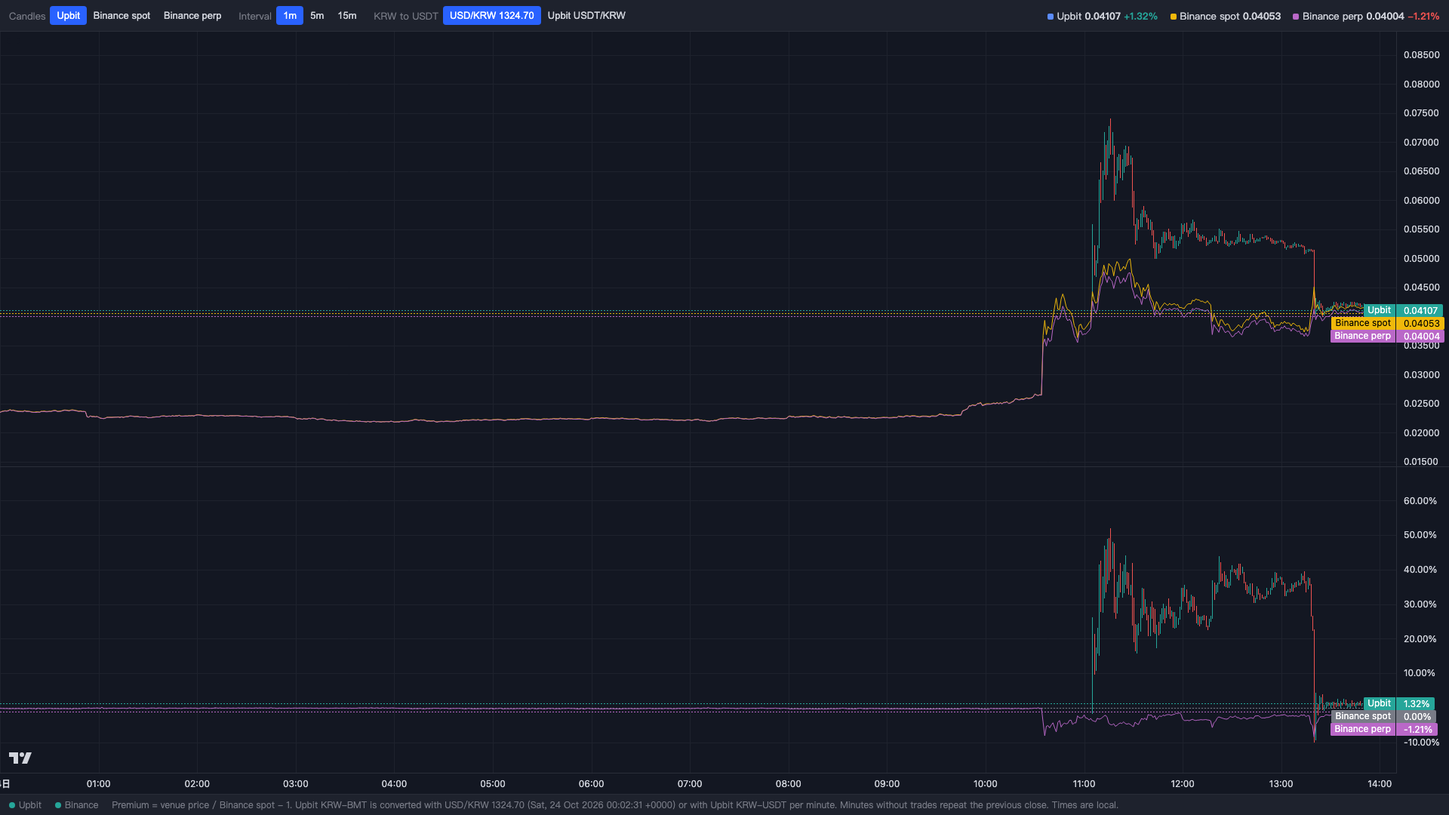
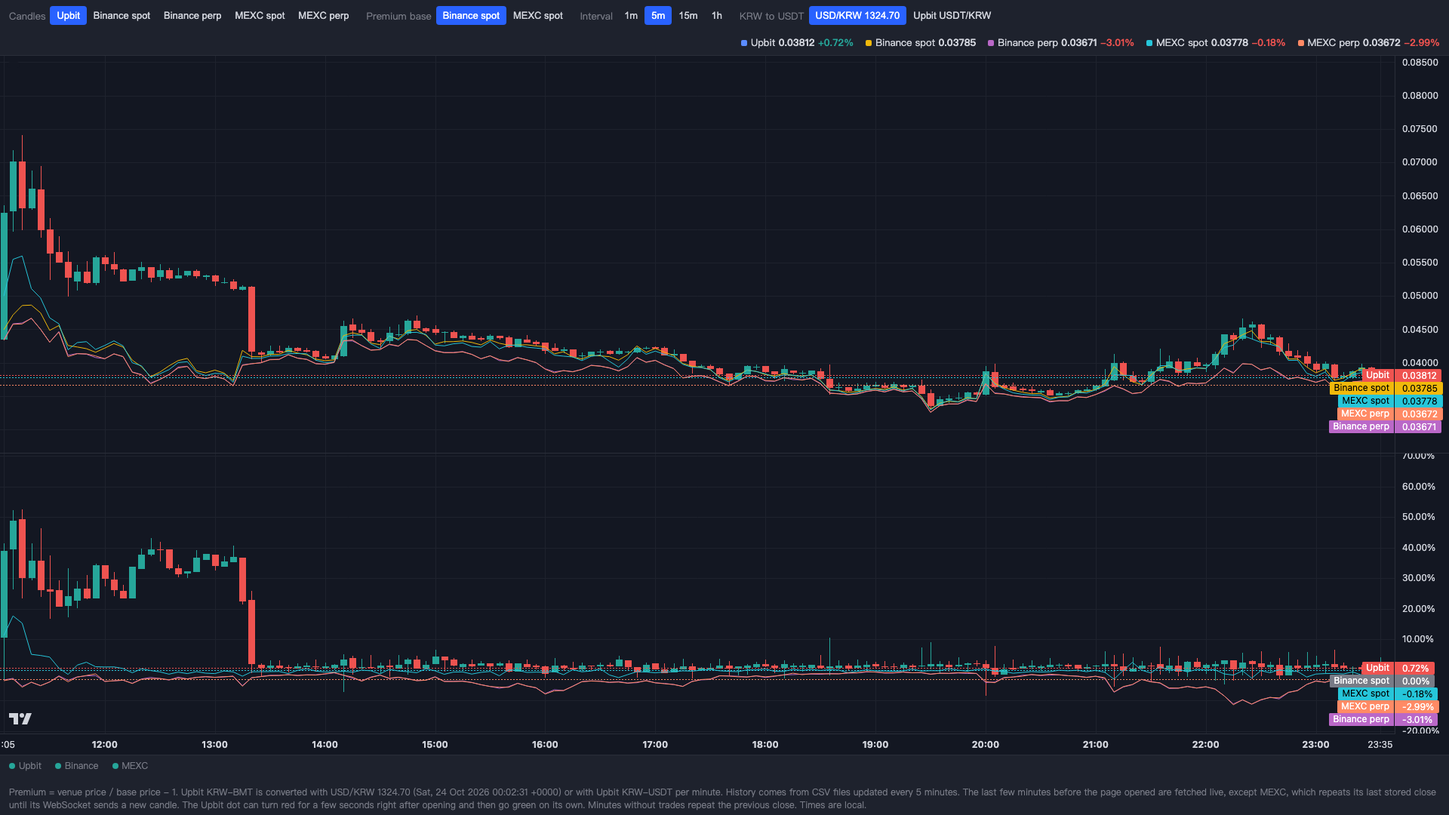
Document the data branch, MEXC and the premium base

diff --git a/README.md b/README.md
@@ -2,13 +2,15 @@
 
 [English](README.md) | [繁體中文](README.zh-TW.md) | [简体中文](README.zh-CN.md)
 
-A live chart of the BMT premium on Upbit over Binance. BMT is the Bubblemaps token. Upbit quotes it in Korean won, so the page converts it to USDT and draws it next to Binance spot and the Binance USDT perpetual. There's no backend and no API key. The browser calls the exchanges directly and the chart keeps updating while the tab is open.
+A live chart of the BMT premium on Upbit over Binance and MEXC. BMT is the Bubblemaps token. Upbit quotes it in Korean won, so the page converts it to USDT and draws it next to Binance spot, the Binance USDT perpetual, MEXC spot and the MEXC USDT perpetual, from the minute BMT listed on Upbit until now.
+
+History is stored as CSV files on this repo's `data` branch, appended every 5 minutes by `collect.py`. The page reads those files first, so it opens in a second or two, then fetches the last few minutes live and keeps updating over WebSockets and polling. There's no backend and no API key in the page.
 
 Live page: https://yyu0310.github.io/upbit-premium-chart/
 
-![Upbit premium over Binance spot on 2026-10-24, the day BMT listed on Upbit](docs/demo.png)
+![BMT on Upbit, Binance and MEXC since the Upbit listing on 2026-10-24, 5-minute candles](docs/demo.png)
 
-To run it locally with an AI coding agent, paste this:
+To run the page locally with an AI coding agent, paste this:
 
 ```
 Clone https://github.com/yyu0310/upbit-premium-chart and serve the folder with any static file server, for example python3 -m http.server, then open index.html in a browser.
@@ -18,48 +20,58 @@ Clone https://github.com/yyu0310/upbit-premium-chart and serve the folder with a
 
 | Part | What it does |
 | --- | --- |
-| Top pane | Price in USDT for Upbit, Binance spot and Binance perp. The venue picked under Candles is drawn as candles, the other two as close lines. |
-| Bottom pane | Premium of Upbit and of Binance perp over Binance spot, in percent. If Upbit or Binance perp is picked under Candles, its premium is drawn as candles. |
-| Interval | 1m, 5m or 15m candles. |
+| Top pane | Price in USDT for Upbit, Binance spot, Binance perp, MEXC spot and MEXC perp. The venue picked under Candles is drawn as candles, the others as close lines. |
+| Bottom pane | Premium of every venue over the premium base, in percent. If the picked venue isn't the base, its premium is drawn as candles. |
+| Premium base | Binance spot or MEXC spot. Use MEXC spot for a token Binance doesn't list. |
+| Interval | 1m, 5m, 15m or 1h candles. |
 | KRW to USDT | Convert Upbit's won price with the USD/KRW exchange rate, or with Upbit's own KRW-USDT price minute by minute. The two differ because USDT itself trades at a premium in Korea. |
-| Header numbers | Latest price for each venue, and the premium for Upbit and Binance perp. |
+| Header numbers | Latest price for each venue, and its premium over the base. |
 | Crosshair | Prices and premiums at the hovered candle. |
 
 ## Requirements
 
 - A modern browser.
-- Network access to `api.upbit.com`, `api.binance.com` or its mirror `data-api.binance.vision`, `fapi.binance.com` and `open.er-api.com`.
+- Network access to `raw.githubusercontent.com`, `api.upbit.com`, `api.binance.com` or its mirror `data-api.binance.vision`, `fapi.binance.com`, `contract.mexc.com`, `wbs-api.mexc.com` and `open.er-api.com`.
+- To run your own collector: Python 3.9 or later. It uses the standard library only.
 
 ## Quick start
 
-What an AI agent can do for you:
-1. Clone the repo.
-2. Serve the folder with a static file server and open `index.html`.
+Viewing the chart:
+1. Clone the repo. An AI agent can do this.
+2. Serve the folder with a static file server and open `index.html`. An AI agent can do this too.
 
-What you do yourself: nothing else. There are no accounts, keys or settings.
+Running your own collector is optional. The page reads this repo's `data` branch by default.
+1. Clone the `data` branch into its own folder: `git clone -b data https://github.com/yyu0310/upbit-premium-chart data-clone`. An AI agent can do this.
+2. Run `python3 collect.py --repo data-clone` on a schedule, every 5 minutes for example. With `--no-push` it only writes the CSV files.
+3. To push, the clone needs write access to your fork. Create the deploy key or token yourself. Don't hand it to an AI agent.
+4. Point `RAW` at the top of the script in `index.html` to your fork's `data` branch.
 
 ## Data sources
 
-| Venue | History from local midnight | Live updates |
+| Venue | History | Live updates |
 | --- | --- | --- |
-| Upbit KRW-BMT | REST 1-minute candles, 200 per request | WebSocket `candle.1m` |
-| Upbit KRW-USDT | Same, but only back to the first KRW-BMT candle of the day | WebSocket `candle.1m` |
-| Binance spot BMTUSDT | REST 1-minute klines | REST poll every 2 seconds |
-| Binance perp BMTUSDT | REST 1-minute klines | REST poll every 2 seconds |
+| Upbit KRW-BMT | CSV, then REST for the minutes after the last row | WebSocket `candle.1m` |
+| Upbit KRW-USDT | CSV, then REST for the minutes after the last row | WebSocket `candle.1m` |
+| Binance spot BMTUSDT | CSV, then REST klines | REST poll every 2 seconds |
+| Binance perp BMTUSDT | CSV, then REST klines | REST poll every 2 seconds |
+| MEXC spot BMTUSDT | CSV only | WebSocket, protobuf frames |
+| MEXC perp BMT_USDT | CSV only | WebSocket `sub.kline` |
 | USD/KRW | `open.er-api.com`, loaded once | None. The source updates once a day |
 
-Premium = venue price / Binance spot price - 1.
+Each CSV is `time,open,high,low,close`, where `time` is the candle's open in unix seconds, UTC. Only closed minutes are written.
+
+Premium = venue price / base price - 1.
 
 ## Limitations
 
-- MEXC is not included. Its futures REST API sends no CORS header, so a browser can't read its history.
-- The chart covers today only, from local midnight. Times on the axis are local time.
-- BMT listed on Upbit on 2026-10-24 at 03:05 UTC, so Upbit has no data before that.
-- Upbit only sends a candle for a minute with trades. A minute without trades repeats the previous close as a flat bar. Binance always sends a bar.
+- MEXC's REST APIs send no CORS header, so the page can't fetch the minutes between the last CSV row and the moment it opens. MEXC repeats its last stored close across those minutes until its WebSocket sends a new candle. The gap is usually under 10 minutes: the CSV updates every 5 minutes and `raw.githubusercontent.com` caches for 5.
+- If the collector stops, the CSV files go stale. Upbit and Binance then fetch more history live and the MEXC gap grows.
+- The chart starts at 2026-10-24 03:05 UTC, when BMT listed on Upbit. Times on the axis are local time.
+- Upbit only sends a candle for a minute with trades. A minute without trades repeats the previous close as a flat bar. Binance and MEXC always send a bar.
 - For Upbit converted with KRW-USDT, the high and low use the KRW-USDT close of the same minute, so they are approximate.
-- Upbit allows a web page about one request every 10 seconds. The chart draws Binance right away, and older Upbit candles fill in one page of 200 at a time. Live Upbit updates start immediately over the WebSocket.
+- Upbit allows a web page about one request every 10 seconds, so the minutes after the last CSV row can take 10 to 20 seconds to appear. Live Upbit updates start immediately over the WebSocket.
 - Right after the page opens, the Upbit status dot can turn red for a few seconds and then go green on its own. The first WebSocket connection seems to hit the same limit and reconnects 3 seconds later. Data isn't affected.
-- Binance blocks some regions. If Binance spot is unreachable, nothing is drawn, because every premium is measured against it. If another API is unreachable, only that venue stays empty.
+- Binance blocks some regions. If the base venue is unreachable, nothing is drawn, so switch the base. If another venue is unreachable, only that venue stays empty.
 - Keep the tab in the foreground. Browsers slow timers in background tabs.
 - Charts use [Lightweight Charts](https://github.com/tradingview/lightweight-charts) 5.0.8 from jsDelivr, pinned with a Subresource Integrity hash.
 

diff --git a/README.zh-CN.md b/README.zh-CN.md
@@ -2,11 +2,13 @@
 
 [English](README.md) | [繁體中文](README.zh-TW.md) | [简体中文](README.zh-CN.md)
 
-实时显示 BMT 在 Upbit 相对币安的溢价。BMT 是 Bubblemaps 的代币。Upbit 的 BMT 用韩元报价，页面会换算成 USDT，和币安现货、币安 USDT 永续合约画在一起。没有后端，也不用 API 密钥。浏览器直接调用交易所 API，页面开着图表就会持续更新。
+实时显示 BMT 在 Upbit 相对币安与 MEXC 的溢价。BMT 是 Bubblemaps 的代币。Upbit 用韩元报价，页面会换算成 USDT，和币安现货、币安 USDT 永续合约、MEXC 现货、MEXC USDT 永续合约画在一起，从 BMT 在 Upbit 上线那一分钟画到现在。
+
+历史数据以 CSV 存在这个 repo 的 `data` 分支，`collect.py` 每 5 分钟补一次。页面先读这些文件，一两秒就能打开，再实时补上最后几分钟，之后通过 WebSocket 与轮询持续更新。页面没有后端，也不含任何 API 密钥。
 
 在线页面：https://yyu0310.github.io/upbit-premium-chart/
 
-![2026-10-24 BMT 在 Upbit 上线当天，Upbit 相对币安现货的溢价](docs/demo.png)
+![2026-10-24 Upbit 上线以来，BMT 在 Upbit、币安、MEXC 的 5 分钟 K 线](docs/demo.png)
 
 想在本地运行，把下面这段贴给 AI coding agent：
 
@@ -18,48 +20,58 @@ Clone https://github.com/yyu0310/upbit-premium-chart ，用任何静态文件服
 
 | 区块 | 功能 |
 | --- | --- |
-| 上图 | Upbit、币安现货、币安合约的 USDT 价格。Candles 选哪家，哪家画成 K 线，另外两家画收盘线。 |
-| 下图 | Upbit 与币安合约相对币安现货的溢价百分比。Candles 选 Upbit 或币安合约时，那家的溢价画成 K 线。 |
-| Interval | 1 分、5 分、15 分 K 线。 |
+| 上图 | Upbit、币安现货、币安合约、MEXC 现货、MEXC 合约的 USDT 价格。Candles 选哪家，哪家画成 K 线，其他画收盘线。 |
+| 下图 | 各家相对溢价基准的溢价百分比。选中的那家不是基准时，它的溢价画成 K 线。 |
+| Premium base | 溢价基准，可选币安现货或 MEXC 现货。币安没上的币改用 MEXC 现货。 |
+| Interval | 1 分、5 分、15 分、1 小时 K 线。 |
 | KRW to USDT | Upbit 韩元价的换算方式：USD/KRW 汇率，或 Upbit 自己的 KRW-USDT 逐分钟价格。USDT 在韩国本身有溢价，所以两种算法结果不同。 |
-| 右上数字 | 各家最新价格，以及 Upbit 与币安合约的溢价。 |
+| 右上数字 | 各家最新价格，以及相对基准的溢价。 |
 | 十字线 | 光标所在那根 K 线的各家价格与溢价。 |
 
 ## 需求
 
 - 新版浏览器。
-- 网络能访问 `api.upbit.com`、`api.binance.com` 或它的镜像 `data-api.binance.vision`、`fapi.binance.com`、`open.er-api.com`。
+- 网络能访问 `raw.githubusercontent.com`、`api.upbit.com`、`api.binance.com` 或它的镜像 `data-api.binance.vision`、`fapi.binance.com`、`contract.mexc.com`、`wbs-api.mexc.com`、`open.er-api.com`。
+- 想自己运行数据收集程序：Python 3.9 以上，只用标准库。
 
 ## 快速开始
 
-AI agent 可以代劳的：
-1. Clone 这个 repo。
-2. 用静态文件服务器打开文件夹，打开 `index.html`。
+看图：
+1. Clone 这个 repo。AI agent 可以代劳。
+2. 用静态文件服务器打开文件夹，打开 `index.html`。AI agent 也可以代劳。
 
-你自己要做的：没有了。不需要账号、密钥或任何设置。
+自己运行数据收集程序是可选的，页面默认读这个 repo 的 `data` 分支。
+1. 把 `data` 分支 clone 到独立文件夹：`git clone -b data https://github.com/yyu0310/upbit-premium-chart data-clone`。AI agent 可以代劳。
+2. 定时运行 `python3 collect.py --repo data-clone`，例如每 5 分钟。加 `--no-push` 只写 CSV、不推送。
+3. 要推送的话，这份 clone 需要你 fork 的写入权限。deploy key 或 token 请自己创建，不要交给 AI agent。
+4. 把 `index.html` 程序开头的 `RAW` 改成指向你 fork 的 `data` 分支。
 
 ## 数据来源
 
-| 交易所 | 历史，从本地时间午夜起 | 实时更新 |
+| 交易所 | 历史 | 实时更新 |
 | --- | --- | --- |
-| Upbit KRW-BMT | REST 1 分钟 K 线，每次 200 根 | WebSocket `candle.1m` |
-| Upbit KRW-USDT | 同上，但只获取到当天 KRW-BMT 第一根 | WebSocket `candle.1m` |
-| 币安现货 BMTUSDT | REST 1 分钟 K 线 | REST 每 2 秒轮询 |
-| 币安合约 BMTUSDT | REST 1 分钟 K 线 | REST 每 2 秒轮询 |
+| Upbit KRW-BMT | CSV，最后一行之后用 REST 补 | WebSocket `candle.1m` |
+| Upbit KRW-USDT | CSV，最后一行之后用 REST 补 | WebSocket `candle.1m` |
+| 币安现货 BMTUSDT | CSV，再用 REST K 线补 | REST 每 2 秒轮询 |
+| 币安合约 BMTUSDT | CSV，再用 REST K 线补 | REST 每 2 秒轮询 |
+| MEXC 现货 BMTUSDT | 只有 CSV | WebSocket，protobuf 格式 |
+| MEXC 合约 BMT_USDT | 只有 CSV | WebSocket `sub.kline` |
 | USD/KRW | `open.er-api.com`，加载时获取一次 | 不更新，来源每天只更新一次 |
 
-溢价 = 该交易所价格 / 币安现货价格 - 1。
+每个 CSV 的字段是 `time,open,high,low,close`，`time` 是 K 线开盘时间，单位是 UTC 的 unix 秒。只写已收盘的分钟。
+
+溢价 = 该交易所价格 / 基准价格 - 1。
 
 ## 限制
 
-- 没有 MEXC。MEXC 合约 REST API 没有 CORS 头，浏览器读不到历史数据。
-- 只看今天，从本地时间午夜开始，时间轴是本地时间。
-- BMT 在 2026-10-24 UTC 03:05 于 Upbit 上线，之前 Upbit 没有数据。
-- Upbit 只有有成交的分钟才有 K 线，没成交的分钟用上一根收盘补一根平线。币安每分钟都有。
+- MEXC 的 REST API 没有 CORS 头，页面获取不到 CSV 最后一行到打开页面之间的那几分钟。这段 MEXC 用最后存下的收盘价补平线，等 WebSocket 推新 K 线才接上。空档通常不到 10 分钟：CSV 每 5 分钟更新，`raw.githubusercontent.com` 再缓存 5 分钟。
+- 数据收集程序停掉的话，CSV 就不会更新。Upbit 和币安会改用 REST 获取比较长的一段，MEXC 的空档会变长。
+- 图表从 2026-10-24 UTC 03:05 开始，也就是 BMT 在 Upbit 上线的时间。时间轴是本地时间。
+- Upbit 只有有成交的分钟才有 K 线，没成交的分钟用上一根收盘补一根平线。币安和 MEXC 每分钟都有。
 - 用 KRW-USDT 换算时，Upbit 的高低点用同一分钟的 KRW-USDT 收盘价当分母，是近似值。
-- 网页请求 Upbit 大约每 10 秒只能 1 次。图表会先画出币安，Upbit 的旧 K 线每次补 200 根，慢慢补上。Upbit 的实时更新走 WebSocket，一打开就有。
+- 网页请求 Upbit 大约每 10 秒只能 1 次，所以 CSV 最后一行之后的 Upbit K 线要 10 到 20 秒才会出现。Upbit 的实时更新走 WebSocket，一打开就有。
 - 刚打开页面时，Upbit 的状态灯可能红几秒，接着自己变绿。看起来是第一次 WebSocket 连接也被同一个限流挡下，3 秒后自动重连。数据不受影响。
-- 币安在部分地区被封锁。访问不到币安现货时整张图都不会画，因为所有溢价都以它为基准。访问不到其他 API 时，只有那家是空的。
+- 币安在部分地区被封锁。访问不到溢价基准时整张图都不会画，请切换基准。访问不到其他交易所时，只有那家是空的。
 - 页面请保持在前台，浏览器会降低后台页面的计时器频率。
 - 图表用 jsDelivr 上的 [Lightweight Charts](https://github.com/tradingview/lightweight-charts) 5.0.8，并以 Subresource Integrity 哈希锁定版本。
 

diff --git a/README.zh-TW.md b/README.zh-TW.md
@@ -2,11 +2,13 @@
 
 [English](README.md) | [繁體中文](README.zh-TW.md) | [简体中文](README.zh-CN.md)
 
-即時顯示 BMT 在 Upbit 相對幣安的溢價。BMT 是 Bubblemaps 的代幣。Upbit 的 BMT 用韓元報價，頁面會換算成 USDT，跟幣安現貨、幣安 USDT 永續合約畫在一起。沒有後端，也不用 API 金鑰。瀏覽器直接呼叫交易所 API，分頁開著圖就會持續更新。
+即時顯示 BMT 在 Upbit 相對幣安與 MEXC 的溢價。BMT 是 Bubblemaps 的代幣。Upbit 用韓元報價，頁面會換算成 USDT，跟幣安現貨、幣安 USDT 永續合約、MEXC 現貨、MEXC USDT 永續合約畫在一起，從 BMT 在 Upbit 上市那一分鐘畫到現在。
+
+歷史資料以 CSV 存在這個 repo 的 `data` 分支，`collect.py` 每 5 分鐘補一次。頁面先讀這些檔，一兩秒就能打開，再即時補上最後幾分鐘，之後透過 WebSocket 與輪詢持續更新。頁面沒有後端，也不含任何 API 金鑰。
 
 線上頁面：https://yyu0310.github.io/upbit-premium-chart/
 
-![2026-10-24 BMT 在 Upbit 上市當天，Upbit 相對幣安現貨的溢價](docs/demo.png)
+![2026-10-24 Upbit 上市以來，BMT 在 Upbit、幣安、MEXC 的 5 分 K](docs/demo.png)
 
 想在本機跑，把下面這段貼給 AI coding agent：
 
@@ -18,48 +20,58 @@ Clone https://github.com/yyu0310/upbit-premium-chart ，用任何靜態檔案伺
 
 | 區塊 | 功能 |
 | --- | --- |
-| 上圖 | Upbit、幣安現貨、幣安合約的 USDT 價格。Candles 選哪家，哪家畫成 K 線，另外兩家畫收盤線。 |
-| 下圖 | Upbit 與幣安合約相對幣安現貨的溢價百分比。Candles 選 Upbit 或幣安合約時，那家的溢價畫成 K 線。 |
-| Interval | 1 分、5 分、15 分 K 線。 |
+| 上圖 | Upbit、幣安現貨、幣安合約、MEXC 現貨、MEXC 合約的 USDT 價格。Candles 選哪家，哪家畫成 K 線，其他畫收盤線。 |
+| 下圖 | 各家相對溢價基準的溢價百分比。選中的那家不是基準時，它的溢價畫成 K 線。 |
+| Premium base | 溢價基準，可選幣安現貨或 MEXC 現貨。幣安沒上的幣改用 MEXC 現貨。 |
+| Interval | 1 分、5 分、15 分、1 小時 K 線。 |
 | KRW to USDT | Upbit 韓元價的換算方式：USD/KRW 匯率，或 Upbit 自己的 KRW-USDT 逐分鐘價格。USDT 在韓國本身有溢價，所以兩種算法結果不同。 |
-| 右上數字 | 各家最新價格，以及 Upbit 與幣安合約的溢價。 |
+| 右上數字 | 各家最新價格，以及相對基準的溢價。 |
 | 十字線 | 游標所在那根 K 線的各家價格與溢價。 |
 
 ## 需求
 
 - 新版瀏覽器。
-- 網路連得到 `api.upbit.com`、`api.binance.com` 或它的鏡像 `data-api.binance.vision`、`fapi.binance.com`、`open.er-api.com`。
+- 網路連得到 `raw.githubusercontent.com`、`api.upbit.com`、`api.binance.com` 或它的鏡像 `data-api.binance.vision`、`fapi.binance.com`、`contract.mexc.com`、`wbs-api.mexc.com`、`open.er-api.com`。
+- 想自己跑資料收集程式：Python 3.9 以上，只用標準函式庫。
 
 ## 快速開始
 
-AI agent 可以代勞的：
-1. Clone 這個 repo。
-2. 用靜態檔案伺服器開資料夾，打開 `index.html`。
+看圖：
+1. Clone 這個 repo。AI agent 可以代勞。
+2. 用靜態檔案伺服器開資料夾，打開 `index.html`。AI agent 也可以代勞。
 
-你自己要做的：沒有了。不需要帳號、金鑰或任何設定。
+自己跑資料收集程式是選用的，頁面預設讀這個 repo 的 `data` 分支。
+1. 把 `data` 分支 clone 到獨立資料夾：`git clone -b data https://github.com/yyu0310/upbit-premium-chart data-clone`。AI agent 可以代勞。
+2. 定時跑 `python3 collect.py --repo data-clone`，例如每 5 分鐘。加 `--no-push` 只寫 CSV、不推。
+3. 要推的話，這份 clone 需要你 fork 的寫入權限。deploy key 或 token 請自己建立，不要交給 AI agent。
+4. 把 `index.html` 程式開頭的 `RAW` 改成指向你 fork 的 `data` 分支。
 
 ## 資料來源
 
-| 交易所 | 歷史，從本地時間午夜起 | 即時更新 |
+| 交易所 | 歷史 | 即時更新 |
 | --- | --- | --- |
-| Upbit KRW-BMT | REST 1 分鐘 K 線，每次 200 根 | WebSocket `candle.1m` |
-| Upbit KRW-USDT | 同上，但只抓到當天 KRW-BMT 第一根 | WebSocket `candle.1m` |
-| 幣安現貨 BMTUSDT | REST 1 分鐘 K 線 | REST 每 2 秒輪詢 |
-| 幣安合約 BMTUSDT | REST 1 分鐘 K 線 | REST 每 2 秒輪詢 |
+| Upbit KRW-BMT | CSV，最後一列之後用 REST 補 | WebSocket `candle.1m` |
+| Upbit KRW-USDT | CSV，最後一列之後用 REST 補 | WebSocket `candle.1m` |
+| 幣安現貨 BMTUSDT | CSV，再用 REST K 線補 | REST 每 2 秒輪詢 |
+| 幣安合約 BMTUSDT | CSV，再用 REST K 線補 | REST 每 2 秒輪詢 |
+| MEXC 現貨 BMTUSDT | 只有 CSV | WebSocket，protobuf 格式 |
+| MEXC 合約 BMT_USDT | 只有 CSV | WebSocket `sub.kline` |
 | USD/KRW | `open.er-api.com`，載入時抓一次 | 不更新，來源每天只更新一次 |
 
-溢價 = 該交易所價格 / 幣安現貨價格 - 1。
+每個 CSV 的欄位是 `time,open,high,low,close`，`time` 是 K 線開盤時間，單位是 UTC 的 unix 秒。只寫已收盤的分鐘。
+
+溢價 = 該交易所價格 / 基準價格 - 1。
 
 ## 限制
 
-- 沒有 MEXC。MEXC 合約 REST API 沒有 CORS 標頭，瀏覽器讀不到歷史資料。
-- 只看今天，從本地時間午夜開始，時間軸是本地時間。
-- BMT 在 2026-10-24 UTC 03:05 於 Upbit 上市，之前 Upbit 沒有資料。
-- Upbit 只有有成交的分鐘才有 K 線，沒成交的分鐘用上一根收盤補一根平線。幣安每分鐘都有。
+- MEXC 的 REST API 沒有 CORS 標頭，頁面抓不到 CSV 最後一列到打開頁面之間的那幾分鐘。這段 MEXC 用最後存下的收盤價補平線，等 WebSocket 推新 K 線才接上。空檔通常不到 10 分鐘：CSV 每 5 分鐘更新，`raw.githubusercontent.com` 再快取 5 分鐘。
+- 資料收集程式停掉的話，CSV 就不會更新。Upbit 和幣安會改用 REST 抓比較長的一段，MEXC 的空檔會變長。
+- 圖從 2026-10-24 UTC 03:05 開始，也就是 BMT 在 Upbit 上市的時間。時間軸是本地時間。
+- Upbit 只有有成交的分鐘才有 K 線，沒成交的分鐘用上一根收盤補一根平線。幣安和 MEXC 每分鐘都有。
 - 用 KRW-USDT 換算時，Upbit 的高低點用同一分鐘的 KRW-USDT 收盤價當分母，是近似值。
-- 網頁打 Upbit 大約每 10 秒只能 1 次。圖會先畫出幣安，Upbit 的舊 K 線每次補 200 根，慢慢補上。Upbit 的即時更新走 WebSocket，一打開就有。
+- 網頁打 Upbit 大約每 10 秒只能 1 次，所以 CSV 最後一列之後的 Upbit K 線要 10 到 20 秒才會出現。Upbit 的即時更新走 WebSocket，一打開就有。
 - 剛打開頁面時，Upbit 的狀態燈可能紅幾秒，接著自己變綠。看起來是第一次 WebSocket 連線也被同一個限流擋下，3 秒後自動重連。資料不受影響。
-- 幣安在部分地區被封鎖。連不到幣安現貨時整張圖都不會畫，因為所有溢價都以它為基準。連不到其他 API 時，只有那家是空的。
+- 幣安在部分地區被封鎖。連不到溢價基準時整張圖都不會畫，請切換基準。連不到其他交易所時，只有那家是空的。
 - 分頁請保持在前景，瀏覽器會降低背景分頁的計時器頻率。
 - 圖表用 jsDelivr 上的 [Lightweight Charts](https://github.com/tradingview/lightweight-charts) 5.0.8，並以 Subresource Integrity 雜湊鎖定版本。
 

diff --git a/AGENTS.md b/AGENTS.md
@@ -4,21 +4,29 @@ Context for AI coding assistants working in this repo.
 
 ## What this is
 
-A single static page, `index.html`, that charts the BMT premium on Upbit over Binance spot, with Binance perp alongside. There's no build step and no backend. The only dependency is Lightweight Charts 5.0.8, loaded from jsDelivr with an SRI hash.
+Two parts:
+
+- `index.html` on `main`: a single static page that charts the BMT premium on Upbit over a base venue, Binance spot or MEXC spot, with Binance perp, MEXC spot and MEXC perp alongside. There's no build step and no backend. The only dependency is Lightweight Charts 5.0.8, loaded from jsDelivr with an SRI hash.
+- `collect.py` on `main`: appends closed 1-minute candles for six sources to `data/*.csv` and pushes them to the `data` branch. Standard library only, so it runs on the macOS system Python 3.9.
+
+The `data` branch holds only the CSV files and a short README. It's kept apart from `main` so data commits don't trigger GitHub Pages builds.
 
 ## Data flow
 
-1. On load, the page fetches today's 1-minute candles from local midnight. Upbit KRW-BMT and then KRW-USDT come from REST at 200 candles per page, newest first, paged with an exclusive `to`. KRW-USDT only goes back to the first BMT candle. Binance spot and perp come from REST klines, and USD/KRW from `open.er-api.com`.
-2. Live updates come from the Upbit WebSocket `candle.1m` for both Upbit markets. Binance spot and perp are polled every 2 seconds.
-3. Every source is stored as a 1-minute map keyed by open time in unix seconds and aligned to one minute grid, where a missing minute repeats the previous close. The page converts Upbit to USDT, aggregates to the chosen interval and draws.
+1. The page loads the six CSV files from `raw.githubusercontent.com`, which caches for 5 minutes and sends CORS headers. GitHub Pages caches for 10 and ignores query strings.
+2. It fills the minutes after the last CSV row: Upbit KRW-BMT and then KRW-USDT from REST, paged back to the last stored minute, and Binance spot and perp from REST klines. MEXC can't be filled, because its REST APIs send no CORS header.
+3. Live updates come from the Upbit WebSocket `candle.1m`, the MEXC futures WebSocket `sub.kline`, and the MEXC spot WebSocket, which only pushes protobuf. Binance spot and perp are polled every 2 seconds.
+4. Every source is a 1-minute map keyed by open time in unix seconds, aligned to one grid from the listing minute, where a missing minute repeats the previous close. The page converts Upbit to USDT, aggregates to the chosen interval and draws.
 
 ## Constraints
 
-- Everything runs in the browser, so every endpoint must send CORS headers or be a WebSocket. MEXC futures REST doesn't, which is why MEXC isn't included.
 - Upbit allows a web page about one request every 10 seconds, and its 429 reply has no CORS header, so the browser sees a network error. Keep the 10.5 second spacing and retry in `upbitGet`. A local origin such as `http://localhost` isn't limited, so test the pacing on the deployed page.
+- MEXC spot protobuf: the wrapper's field 308 is the kline. Inside it, field 2 is the open time in seconds and fields 3, 4, 5 and 6 are open, close, high and low as decimal strings. `pbFields` reads only what's needed.
+- MEXC spot REST klines ignore `startTime` unless `endTime` is also given, return at most 500 rows, and treat `endTime` as exclusive. `collect.py` walks 500-minute windows.
 - Binance perp WebSocket was silent in testing, so Binance stays on REST polling.
 - Keep the SRI hash when touching the Lightweight Charts script tag.
 
 ## Testing
 
-Serve the folder with `python3 -m http.server` and open it in headless Chrome with `--remote-debugging-port`. Read `M`, which holds the bar count per source, and `#stat` through the DevTools protocol. Binance spot and perp gain one bar per minute. Upbit only gains a bar for a minute with trades.
+- `python3 collect.py --selftest` runs offline checks. `python3 collect.py --no-push` writes `./data` without git.
+- Page: serve the folder with `python3 -m http.server`. To test against local CSV files, change `RAW` to `"data/"` in a copy. Open it in headless Chrome with `--remote-debugging-port`, then read `M`, which holds the bar map per source, and `#stat` through the DevTools protocol. Binance spot and perp gain one bar per minute. Upbit only gains a bar for a minute with trades.
